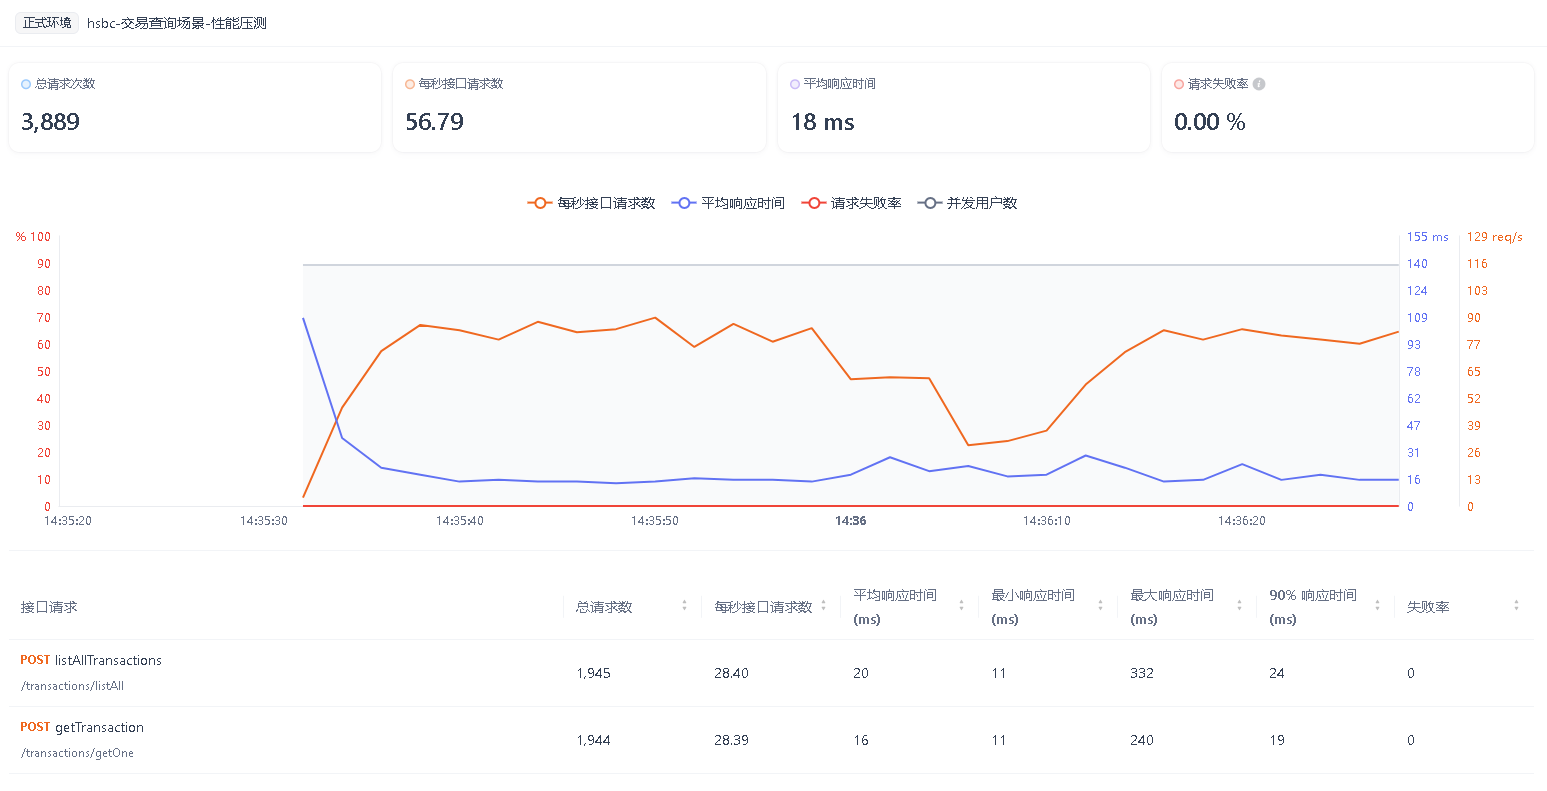
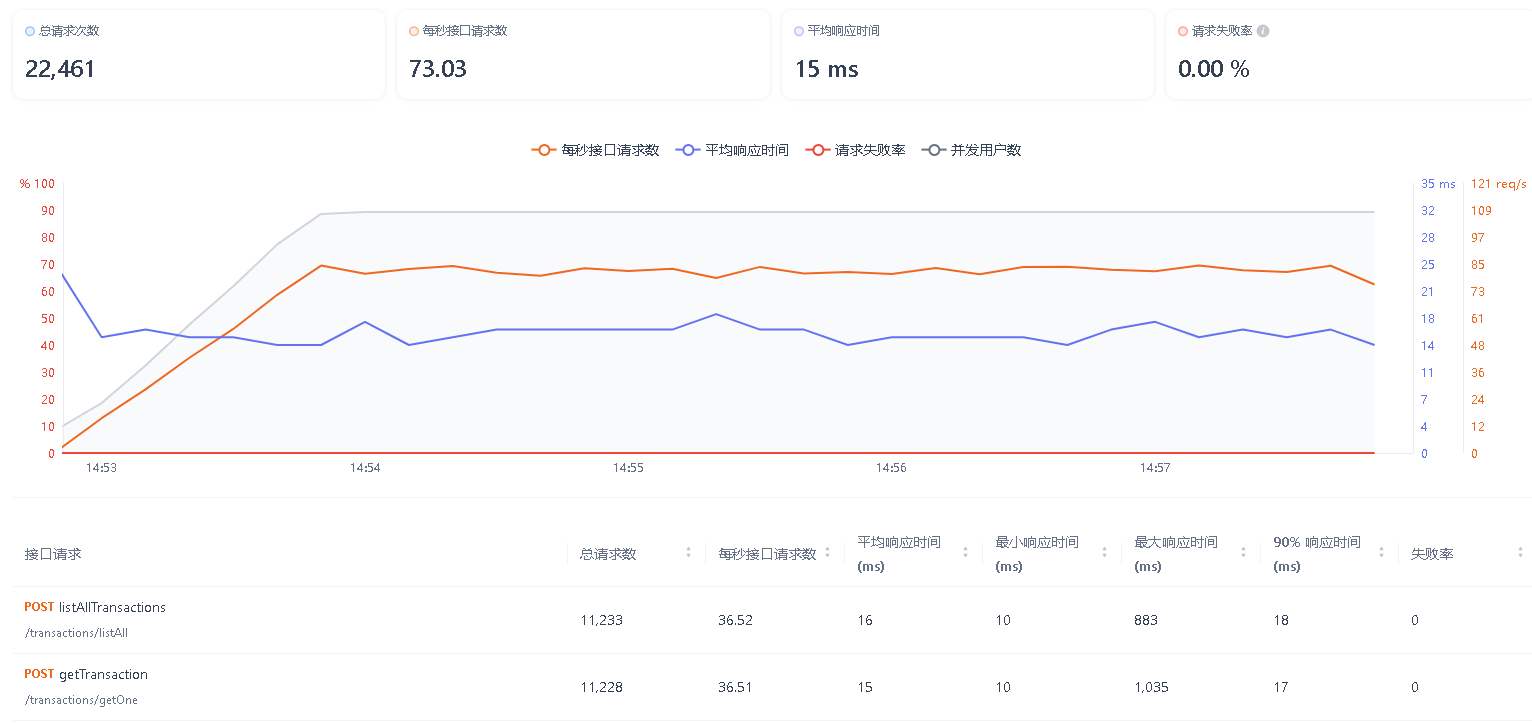
增加请求参数校验及压测结果

diff --git a/src/main/java/com/hsbc/transaction/controller/TransactionController.java b/src/main/java/com/hsbc/transaction/controller/TransactionController.java
@@ -7,8 +7,8 @@ import com.hsbc.transaction.vo.TransactionVO;
 import io.swagger.v3.oas.annotations.Operation;
 import io.swagger.v3.oas.annotations.tags.Tag;
 import org.springframework.beans.factory.annotation.Autowired;
-import org.springframework.http.HttpStatus;
 import org.springframework.http.ResponseEntity;
+import org.springframework.validation.annotation.Validated;
 import org.springframework.web.bind.annotation.*;
 
 import java.util.List;
@@ -18,46 +18,47 @@ import java.util.List;
  */
 @RestController
 @Tag(name = "交易管理模块", description = "交易相关操作")
+@Validated
 @RequestMapping("/transactions")
 public class TransactionController {
     @Autowired
     private TransactionService transactionService;
 
-    @Operation(summary = "创建交易记录",description = "创建交易记录，记录状态默认为有效")
+    @Operation(summary = "创建交易记录", description = "创建交易记录，记录状态默认为有效")
     @RequestMapping(path = "/create", method = RequestMethod.POST)
-    public ResponseEntity<CommonResponse<TransactionVO>> createTransaction(@RequestBody TransactionRequest request) {
+    public ResponseEntity<CommonResponse<TransactionVO>> createTransaction(@Validated @RequestBody TransactionRequest request) {
         TransactionVO result = transactionService.createTransaction(request.getTransactionInfo());
         return ResponseEntity.ok(CommonResponse.success(result));
     }
 
 
-    @Operation(summary = "修改交易记录",description = "修改交易记录接口，记录状态不变更")
+    @Operation(summary = "修改交易记录", description = "修改交易记录接口，记录状态不变更")
     @RequestMapping(path = "/modify", method = RequestMethod.POST)
     public ResponseEntity<CommonResponse<TransactionVO>> updateTransaction(
-            @RequestBody TransactionRequest request) {
+            @Validated @RequestBody TransactionRequest request) {
         TransactionVO result = transactionService.modifyTransaction(request.getTransactionInfo());
         return ResponseEntity.ok(CommonResponse.success(result));
     }
 
-    @Operation(summary = "删除交易记录",description = "删除交易记录，假删操作，记录状态更新成无效")
+    @Operation(summary = "删除交易记录", description = "删除交易记录，假删操作，记录状态更新成无效")
     @RequestMapping(path = "/delete", method = RequestMethod.POST)
-    public ResponseEntity<CommonResponse> deleteTransaction(@RequestParam(name = "transactionId") String transactionId) {
+    public ResponseEntity<CommonResponse> deleteTransaction(@RequestParam(name = "transactionId", required = true) String transactionId) {
         transactionService.deleteTransaction(transactionId);
         return ResponseEntity.ok(CommonResponse.success());
     }
 
-    @Operation(summary = "查询单条交易记录",description = "查询单条交易记录，状态为有效或无效均可查询")
+    @Operation(summary = "查询单条交易记录", description = "查询单条交易记录，状态为有效或无效均可查询")
     @RequestMapping(path = "/getOne", method = RequestMethod.POST)
-    public ResponseEntity<CommonResponse<TransactionVO>> getTransaction(@RequestParam(name = "transactionId") String transactionId) {
+    public ResponseEntity<CommonResponse<TransactionVO>> getTransaction(@RequestParam(name = "transactionId", required = true) String transactionId) {
         TransactionVO result = transactionService.getTransaction(transactionId);
         return ResponseEntity.ok(CommonResponse.success(result));
     }
 
-    @Operation(summary = "批量查询交易记录",description = "分页查询交易记录，默认查询状态为有效的记录")
+    @Operation(summary = "批量查询交易记录", description = "分页查询交易记录，默认查询状态为有效的记录")
     @RequestMapping(path = "/listAll", method = RequestMethod.POST)
     public ResponseEntity<CommonResponse<List<TransactionVO>>> listAllTransactions(
-            @RequestParam(defaultValue = "0") int pageNo,
-            @RequestParam(defaultValue = "10") int pageSize) {
+            @RequestParam(required = false, defaultValue = "0") int pageNo,
+            @RequestParam(required = false, defaultValue = "10") int pageSize) {
         List<TransactionVO> result = transactionService.listAllTransactions(pageNo, pageSize);
         return ResponseEntity.ok(CommonResponse.success(result));
     }

diff --git a/src/main/java/com/hsbc/transaction/exception/GlobalExceptionHandler.java b/src/main/java/com/hsbc/transaction/exception/GlobalExceptionHandler.java
@@ -6,8 +6,12 @@ import lombok.extern.slf4j.Slf4j;
 import org.slf4j.Logger;
 import org.slf4j.LoggerFactory;
 import org.springframework.http.ResponseEntity;
+import org.springframework.web.bind.MethodArgumentNotValidException;
 import org.springframework.web.bind.annotation.ControllerAdvice;
 import org.springframework.web.bind.annotation.ExceptionHandler;
+
+import java.util.HashMap;
+import java.util.Map;
 
 /**
  * Global exception handler for TransactionService
@@ -30,6 +34,15 @@ public class GlobalExceptionHandler {
     public ResponseEntity<CommonResponse> handleDuplicateTransaction(DuplicateTransactionException ex) {
         log.warn("DuplicateTransactionException {}", String.valueOf(ex));
         return ResponseEntity.ok(CommonResponse.error(ResponseStatusCode.CONFLICT.getCode(), ex.getMessage()));
+    }
+
+    // 处理@Valid/@Validated抛出的校验异常
+    @ExceptionHandler(MethodArgumentNotValidException.class)
+    public ResponseEntity<CommonResponse> handleValidationException(MethodArgumentNotValidException ex) {
+        Map<String, String> errors = new HashMap<>();
+        ex.getBindingResult().getFieldErrors().forEach(error -> errors.put(error.getField(), error.getDefaultMessage()));
+        log.error("handleValidationException ", ex);
+        return ResponseEntity.ok(CommonResponse.error(ResponseStatusCode.BAD_REQUEST.getCode(), ResponseStatusCode.BAD_REQUEST.getMessage(), errors));
     }
 
     // Add more handlers as needed

diff --git a/src/main/java/com/hsbc/transaction/model/TransactionInfo.java b/src/main/java/com/hsbc/transaction/model/TransactionInfo.java
@@ -1,7 +1,9 @@
 package com.hsbc.transaction.model;
 
 import io.swagger.v3.oas.annotations.media.Schema;
+import jakarta.validation.constraints.NotBlank;
 import lombok.Data;
+import jakarta.validation.constraints.NotNull;
 
 import java.math.BigDecimal;
 
@@ -15,12 +17,15 @@ public class TransactionInfo {
     @Schema(description = "交易ID", required = false)
     private String transactionId;
 
+    @NotBlank(message = "账户ID不能为空")
     @Schema(description = "账户ID", required = true)
     private String accountId;
 
+    @NotBlank(message = "交易类型不能为空")
     @Schema(description = "交易类型", required = true)
     private String type;
 
+    @NotNull(message = "交易金额不能为空")
     @Schema(description = "交易金额", required = true)
     private BigDecimal amount;
 

diff --git a/src/main/java/com/hsbc/transaction/enums/ResponseStatusCode.java b/src/main/java/com/hsbc/transaction/enums/ResponseStatusCode.java
@@ -11,6 +11,7 @@ public enum ResponseStatusCode {
 
     NOT_FOUND(HttpStatus.NOT_FOUND.value(), "Not Found."),
     CONFLICT(HttpStatus.CONFLICT.value(), "Conflict."),
+    BAD_REQUEST(HttpStatus.BAD_REQUEST.value(), "Bad Request."),
     INTERNAL_SERVER_ERROR(HttpStatus.INTERNAL_SERVER_ERROR.value(), "System exception, please contact the administrator.");
 
     private final int code;

diff --git a/src/main/java/com/hsbc/transaction/dto/TransactionRequest.java b/src/main/java/com/hsbc/transaction/dto/TransactionRequest.java
@@ -1,12 +1,16 @@
 package com.hsbc.transaction.dto;
 
 import com.hsbc.transaction.model.TransactionInfo;
+import jakarta.validation.Valid;
+import jakarta.validation.constraints.NotNull;
 import lombok.Data;
 
 /**
  * @author zpyu
  */
 @Data
+
 public class TransactionRequest {
+    @Valid @NotNull(message = "交易信息不能为空")
     private TransactionInfo transactionInfo;
 }

diff --git a/src/main/java/com/hsbc/transaction/common/CommonResponse.java b/src/main/java/com/hsbc/transaction/common/CommonResponse.java
@@ -30,4 +30,9 @@ public class CommonResponse<T> {
     public static <T> CommonResponse<T> error(int code, String msg) {
         return new CommonResponse<>(code, msg, null);
     }
+
+    public static <T> CommonResponse<T> error(int code, String msg, T data) {
+        return new CommonResponse<>(code, msg, data);
+
+    }
 }

diff --git a/README.md b/README.md
@@ -1,9 +1,10 @@
 # hsbc-transaction-service
 
 ## 项目简介
+
 本项目是一个基于Spring Boot构建的交易服务系统，提供交易记录的创建、修改、删除、分页查询等功能。采用Restful API设计原则，提供标准API接口，使用SpringDoc和Swagger进行接口文档的管理。系统采用标准的分层架构设计，包含 Controller、Service、DAO 层，并通过 VO、DTO 等对象实现数据封装与传输。
-为了保证服务的高可用和稳定性，对系统进行了以下完善和扩展，支持缓存管理、统一异常处理、日志输出等功能，同时进行了单元测试和压力测试，确保代码的质量和健壮性。
----
+为了保证服务的高可用和稳定性，对系统进行了以下完善和扩展，支持缓存管理、统一异常处理、请求参数校验、日志输出等功能，同时进行了单元测试和压力测试，确保代码的质量和健壮性。
+
 
 ## 项目展示
 
@@ -26,7 +27,7 @@
 - **Swagger / SpringDoc**：API 文档生成
 - **Maven(3.9.9) + Docker**：构建与部署
 
----
+
 
 ## 项目结构说明
 
@@ -259,7 +260,7 @@ Content-Type: application/json
 
 
 
-## 响应结构说明
+### 响应结构说明
 
 所有接口返回统一的 JSON 格式：
 
@@ -279,9 +280,9 @@ Content-Type: application/json
 
 ---
 
-## 示例请求与响应
+### 示例请求与响应
 
-### 创建交易 - 请求
+#### 创建交易 - 请求
 ```bash
 POST /transaction/create HTTP/1.1
 Content-Type: application/json
@@ -297,7 +298,7 @@ Content-Type: application/json
 ```
 
 
-### 创建交易 - 响应
+#### 创建交易 - 响应
 ```json
 {
   "code": 200,
@@ -315,7 +316,6 @@ Content-Type: application/json
 ```
 
 
----
 
 ## 测试说明
 ### 单元测试
@@ -333,22 +333,24 @@ Content-Type: application/json
 ![img_2.png](image/junit_service_api.png)
 ![img_1.png](image/junit_service.png)
 
-### 压力测试
+## 压力测试
 -  压测工具：Apifox
 -  压测场景： 交易查询、交易变更（新增、编辑、删除功能）
 -  参数：并发50,100；预热1min；运行5min
 
 #### 压测报告
 1.交易查询场景：单条以及分页查询交易数据
+- 并发50,100；预热1min；运行5min
 ![apifox_search_sync50.png](image%2Fapifox_search_sync50.png)
 ![apifox_search_sync_100.png](image%2Fapifox_search_sync_100.png)
+![img.png](docker_search_cpu.png)
 
-2.交易变更场景：新增、编辑、删除功能
-  - 交易变更（并发50,100；预热1min；运行5min）：新增、编辑、删除功能
+2.交易变更场景：模拟用户操作，新增交易、编辑交易、删除交易
+- 并发50,100；预热1min；运行5min
+![img.png](image/apifox_update_sync50.png)
+![img.png](image/apifox_update_sync100.png)
+![img.png](image/docker_update_cpu.png)
 
-
-
----
 
 ## 后续工作 & 待优化点
 
@@ -357,4 +359,4 @@ Content-Type: application/json
 3. 高并发性能：可以借助Redis进行三级缓存，提升性能；使用Redis分布式锁，解决资源竞争问题；采用异步消息、限流等方式减轻服务压力。
 4. 安全认证鉴权：把控接口、数据权限；增加oauth、sso或者token等验证机制。 
 5. 完善异常处理机制：针对不同业务场景自定义异常类，统一处理异常。
----
+
